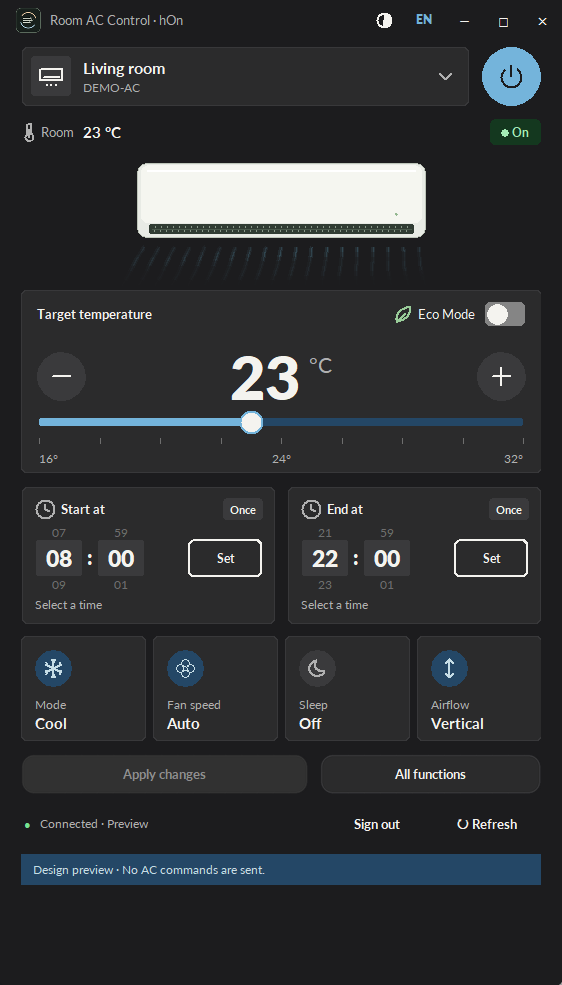
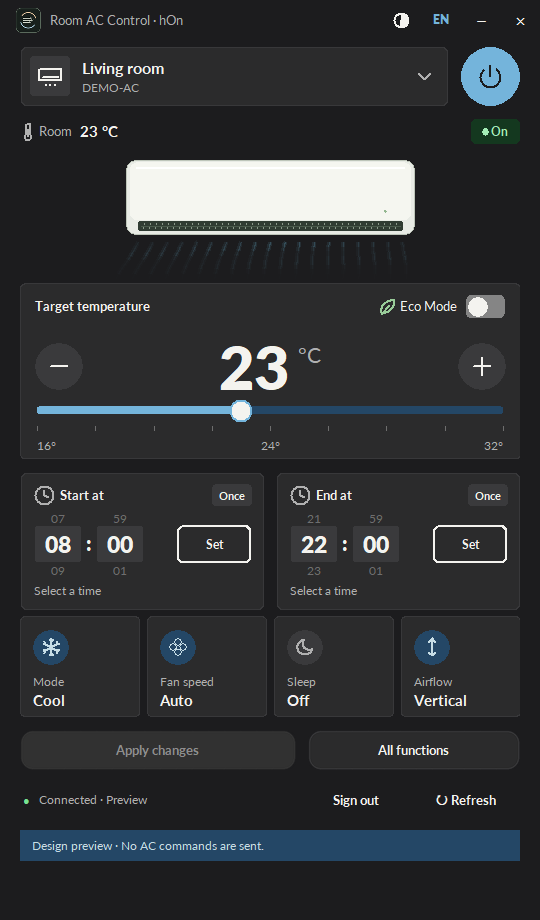
Open windows at their minimum size and keep them fixed
The main window opens at 540x920 and All functions at 620x700; neither
can be resized or maximized, and the main title bar drops its maximize
button. The title bar nudges the requested size after removing the
native caption, so the client area is exact. Smoke tests check the fixed
sizes instead of resizing windows, and the user guide and README
screenshots match.

diff --git a/src/room_ac_control/dashboard.py b/src/room_ac_control/dashboard.py
@@ -30,6 +30,8 @@ TIMER_TOP = 368
 TILE_TOP = TIMER_TOP + TimerCard.HEIGHT + 12
 TILE_HEIGHT = 104
 CANVAS_HEIGHT = TILE_TOP + TILE_HEIGHT + 2
+# The window opens at its minimum size and stays fixed; the layout is designed for it.
+WINDOW_SIZE = (540, 920)
 THEME_CHOICES = [
     {"label": "Follow Windows", "value": "system", "glyph": "monitor", "description": "Match the Windows app mode"},
     {"label": "Light mode", "value": "light", "glyph": "sun", "description": "Sand and white surfaces"},
@@ -79,12 +81,12 @@ class App:
         self.app_icon = tk.PhotoImage(master=root, file=str(ASSETS / "app-icon.png"))
         root.iconphoto(True, self.app_icon)
         localized_title(root,"Room AC Control for hOn" + (" · Design preview" if demo else ""))
-        root.geometry("560x960")
-        root.minsize(540, 920)
+        root.geometry("{}x{}".format(*WINDOW_SIZE))
+        root.resizable(False, False)
         paint(root, bg="BG")
         configure_styles(root)
         from .window_header import WindowHeader, HeaderIconButton
-        self.header = WindowHeader(root, "Room AC Control · hOn", self.close, self.minimize_window)
+        self.header = WindowHeader(root, "Room AC Control · hOn", self.close, self.minimize_window, maximize=False, size=WINDOW_SIZE)
         self.language_code = tk.StringVar(root, value="PT" if self.i18n.language == "pt-PT" else "EN")
         self.language_button = tk.Button(self.header.frame,textvariable=self.language_code,command=self.language_menu,
                                         relief="flat",bd=0,font=font(9,"black"),padx=10,cursor="hand2")
@@ -95,8 +97,7 @@ class App:
         self.content = ttk.Frame(root)
         self.content.pack(fill="both",expand=True)
         self.body = ttk.Frame(self.content, padding=(20,6,20,16))
-        self.body.place(relx=.5,y=0,anchor="n",relheight=1,width=560)
-        self.content.bind("<Configure>",lambda event:self.body.place_configure(width=min(560,event.width)))
+        self.body.pack(fill="both",expand=True)
         from .login_view import LoginView
         self.login_view = LoginView(self)
         self.login_frame = self.login_view.frame

diff --git a/tests/dashboard_layout_smoke.py b/tests/dashboard_layout_smoke.py
@@ -6,7 +6,7 @@ import sys
 import tkinter as tk
 
 sys.path.insert(0, str(Path(__file__).resolve().parents[1] / "src"))
-from room_ac_control.dashboard import App, WIDTH, TIMER_TOP, TILE_TOP
+from room_ac_control.dashboard import App, WIDTH, TIMER_TOP, TILE_TOP, WINDOW_SIZE
 from room_ac_control.demo import devices
 from room_ac_control.inline_timers import TimerCard
 
@@ -17,6 +17,7 @@ try:
     fixture = devices()[0]
     fixture["controls"].pop("ecoMode")
     app.connected([fixture])
+    for _ in range(20): root.update(); root.after(30)  # Let the fixed-size fit finish.
     requests = []
     for card in app.inline_timers.cards.values():
         card.changed = lambda action, due: requests.append((action, due))
@@ -24,9 +25,10 @@ try:
     for theme in ("light", "dark"):
         app.theme_preference = theme
         app.apply_theme()
-        for geometry in ("540x920", "560x960", "900x1100", "540x920"):
-            root.geometry(geometry)
+        if True:  # The window has one fixed size; check it in each theme.
             root.update()
+            assert root.resizable() == (False, False)
+            assert (root.winfo_width(), root.winfo_height()) == WINDOW_SIZE
             scale = app.canvas.winfo_width() / WIDTH
             timers = app.inline_timers
             start, end = timers.cards["on"], timers.cards["off"]
@@ -70,6 +72,6 @@ try:
                 # The value stays centred between the − and + buttons.
                 assert number[0] > 64 * scale and unit[2] < 456 * scale
             assert app.status_label.winfo_y() + app.status_label.winfo_height() <= app.body.winfo_height()
-    print("Light/dark minimum, default and wide layouts, timer bounds and clicks, active Stop and temperature centring passed offline.")
+    print("Light/dark fixed-size layout, timer bounds and clicks, active Stop and temperature centring passed offline.")
 finally:
     app.close()

diff --git a/tests/window_header_smoke.py b/tests/window_header_smoke.py
@@ -12,11 +12,11 @@ from tests.ui_smoke import demo_device
 root = tk.Tk()
 app = App(root, demo=True, enable_tray=False,language="en")
 root.title("Room AC Control · Drag regression test")
-root.update()
+for _ in range(20): root.update(); root.after(30)  # Let the fixed-size fit finish.
 native = app.header.native
 style = native.get_style(native.hwnd, -16)
 assert not style & native.CAPTION
-assert style & 0x00040000  # resize frame
+assert root.resizable() == (False, False)  # Fixed at the minimum size
 assert style & 0x00080000  # system menu / taskbar commands
 app.connected([demo_device()])
 root.update()
@@ -39,14 +39,9 @@ for frame in range(24):
     assert not native.get_style(native.hwnd,-16) & native.CAPTION
     app.header.drag(SimpleNamespace(x_root=rect.left+200,y_root=rect.top+25))
 app.header.end_drag()
-app.header.max_button.invoke()
-root.update()
-assert root.state() == "zoomed"
-assert app.body.winfo_width() == 560
-assert app.canvas.winfo_width() <= 520
-app.header.max_button.invoke()
-root.update()
-assert root.state() == "normal"
+assert app.header.max_button is None  # No maximize: the layout is designed for one size.
+assert (root.winfo_width(), root.winfo_height()) == (540, 920)
+assert app.body.winfo_width() == 540 and app.canvas.winfo_width() == 500
 app.open_functions()
 root.update()
 view = app.functions_view
@@ -66,4 +61,4 @@ if "--preview" in sys.argv:
 else:
     app.header.close_button.invoke()
 assert app.closing
-print("Fast-drag frame stability, integrated headers, maximize/restore, centered content and dialog close passed.")
+print("Fast-drag frame stability, integrated headers, fixed window size, centered content and dialog close passed.")

diff --git a/src/room_ac_control/window_header.py b/src/room_ac_control/window_header.py
@@ -81,8 +81,9 @@ class WindowsFrame:
         self.user.RedrawWindow(self.hwnd, None, None, 0x0001 | 0x0004 | 0x0080 | 0x0400)
 
 class WindowHeader:
-    def __init__(self, window, title, close, minimize=None, maximize=True):
+    def __init__(self, window, title, close, minimize=None, maximize=True, size=None):
         self.window = window
+        self.size = size
         self.drag_origin = None
         self.drag_pending = None
         self.drag_job = None
@@ -126,6 +127,23 @@ class WindowHeader:
     def apply_frame(self):
         if self.window.winfo_exists() and self.native:
             self.native.apply()
+            if self.size:
+                self.window.after(50, lambda: self.fit(self.size, 5))
+
+    def fit(self, request, attempts):
+        """Keep a fixed-size window's client area exact after the caption is removed.
+
+        Tk still adds its own frame allowance to requested sizes, so nudge the
+        request by the measured error until the client matches."""
+        if not self.window.winfo_exists():
+            return
+        width, height = self.size
+        error = (self.window.winfo_width()-width, self.window.winfo_height()-height)
+        if error == (0, 0) or attempts == 0:
+            return
+        request = (request[0]-error[0], request[1]-error[1])
+        self.window.geometry(f"{request[0]}x{request[1]}")
+        self.window.after(50, lambda: self.fit(request, attempts-1))
 
     def mapped(self, event):
         if event.widget is self.window:

diff --git a/tests/functions_scroll_smoke.py b/tests/functions_scroll_smoke.py
@@ -24,8 +24,9 @@ try:
     app.connected([snapshot])
     app.open_functions()
     view = app.functions_view
-    view.window.geometry("740x760")  # The compact header leaves more room for cards.
-    root.update()
+    for _ in range(20): root.update(); root.after(30)  # Let the fixed-size fit finish.
+    assert view.window.resizable() == (False, False)
+    assert (view.window.winfo_width(), view.window.winfo_height()) == (620, 700)
 
     def wheel(widget, delta=-120):
         widget.event_generate("<MouseWheel>", delta=delta)
@@ -76,12 +77,6 @@ try:
     view.search.set("")
     root.update()
     assert view.scrollable
-    view.window.geometry("740x1450")
-    root.update()
-    assert not view.scrollable and view.scroll.yview() == (0, 1)
-    view.window.geometry("740x700")
-    root.update()
-    assert view.scrollable
 
     # Nested preset labels scroll the pane; numeric inputs keep their own behavior.
     preset = {"kind": "function", "command": "startProgram", "label": "Offline preset",
@@ -106,6 +101,6 @@ try:
     root.update()
     wheel(view.inner)
     assert view.scroll.yview()[0] > 0
-    print("Blank-space wheel routing, content-fit limits, search, resizing and preset input isolation passed offline.")
+    print("Blank-space wheel routing, content-fit limits, search, fixed window size and preset input isolation passed offline.")
 finally:
     app.close()

diff --git a/src/room_ac_control/functions_view.py b/src/room_ac_control/functions_view.py
@@ -73,14 +73,15 @@ class FunctionsView:
         app.dialog = self.window
         app.dialog_view = self
         localized_title(self.window,"Room AC Control · All functions")
-        self.window.geometry("740x820")
-        self.window.minsize(620, 700)
+        # Fixed at the minimum size; cards scroll when a section needs more room.
+        self.window.geometry("620x700")
+        self.window.resizable(False, False)
         paint(self.window, bg="BG")
         self.window.transient(app.root)
         self.window.grab_set()
         self.window.protocol("WM_DELETE_WINDOW", self.close)
         from .window_header import WindowHeader
-        self.header = WindowHeader(self.window, "Room AC Control · All functions", self.close, maximize=False)
+        self.header = WindowHeader(self.window, "Room AC Control · All functions", self.close, maximize=False, size=(620, 700))
         self.photo = unit_photo(self.window, 230)
         self.section = "settings"
         self.settings_changes = dict(app.dirty)
@@ -401,6 +402,7 @@ class FunctionsView:
         window = tk.Toplevel(self.window)
         localized_title(window,spec["label"])
         paint(window, bg="BG")
+        window.resizable(False, False)
         window.transient(self.window)
         window.grab_set()
         def close_detail():

diff --git a/tests/i18n_smoke.py b/tests/i18n_smoke.py
@@ -47,7 +47,6 @@ try:
     assert app.temp.get()=="26.5" and app.mode.get()=="Cool"
     assert app.canvas.itemcget(app.canvas.find_withtag("target-temperature")[0],"text")=="26,5"
     assert app.apply_button.cget("text")=="Aplicar alterações (1)"  # One staged change is counted.
-    root.geometry("540x920")
     app.staged("silentSleepStatus","1")
     root.update()
     texts={app.canvas.itemcget(item,"text"):item for item in app.canvas.find_all() if app.canvas.type(item)=="text"}

diff --git a/docs/USER_GUIDE.md b/docs/USER_GUIDE.md
@@ -62,9 +62,9 @@ Status updates through Cloud notifications with a check every 15 seconds as a ba
 
 After an accepted settings command, **Awaiting confirmation** keeps the values you sent visible while the cloud still reports older values. These are separate from unsent changes and are not automatically resent. Matching reports confirm them; after 60 seconds without confirmation, the next successful refresh shows the reported values with a warning. The power indicator and airflow animation continue to follow reported operation.
 
-Drag the integrated header to move the window, double-click to maximize/restore, or use its window controls. Minimize moves the app to the Windows notification area. Double-click the tray icon or choose **Open Room AC Control** to restore. **Exit** or the window's close button quits without turning the AC off.
+Drag the integrated header to move the window, or use its minimize and close controls. Minimize moves the app to the Windows notification area. Double-click the tray icon or choose **Open Room AC Control** to restore. **Exit** or the window's close button quits without turning the AC off.
 
-The dashboard stays centred when resized. At its minimum size, timer cards and action buttons remain aligned, and timer controls retain their full height.
+The main window and All functions open at a fixed size designed for their layout, so they cannot be resized or maximized. All functions scrolls when a section has more cards than fit.
 
 ## Sign out and privacy
 
